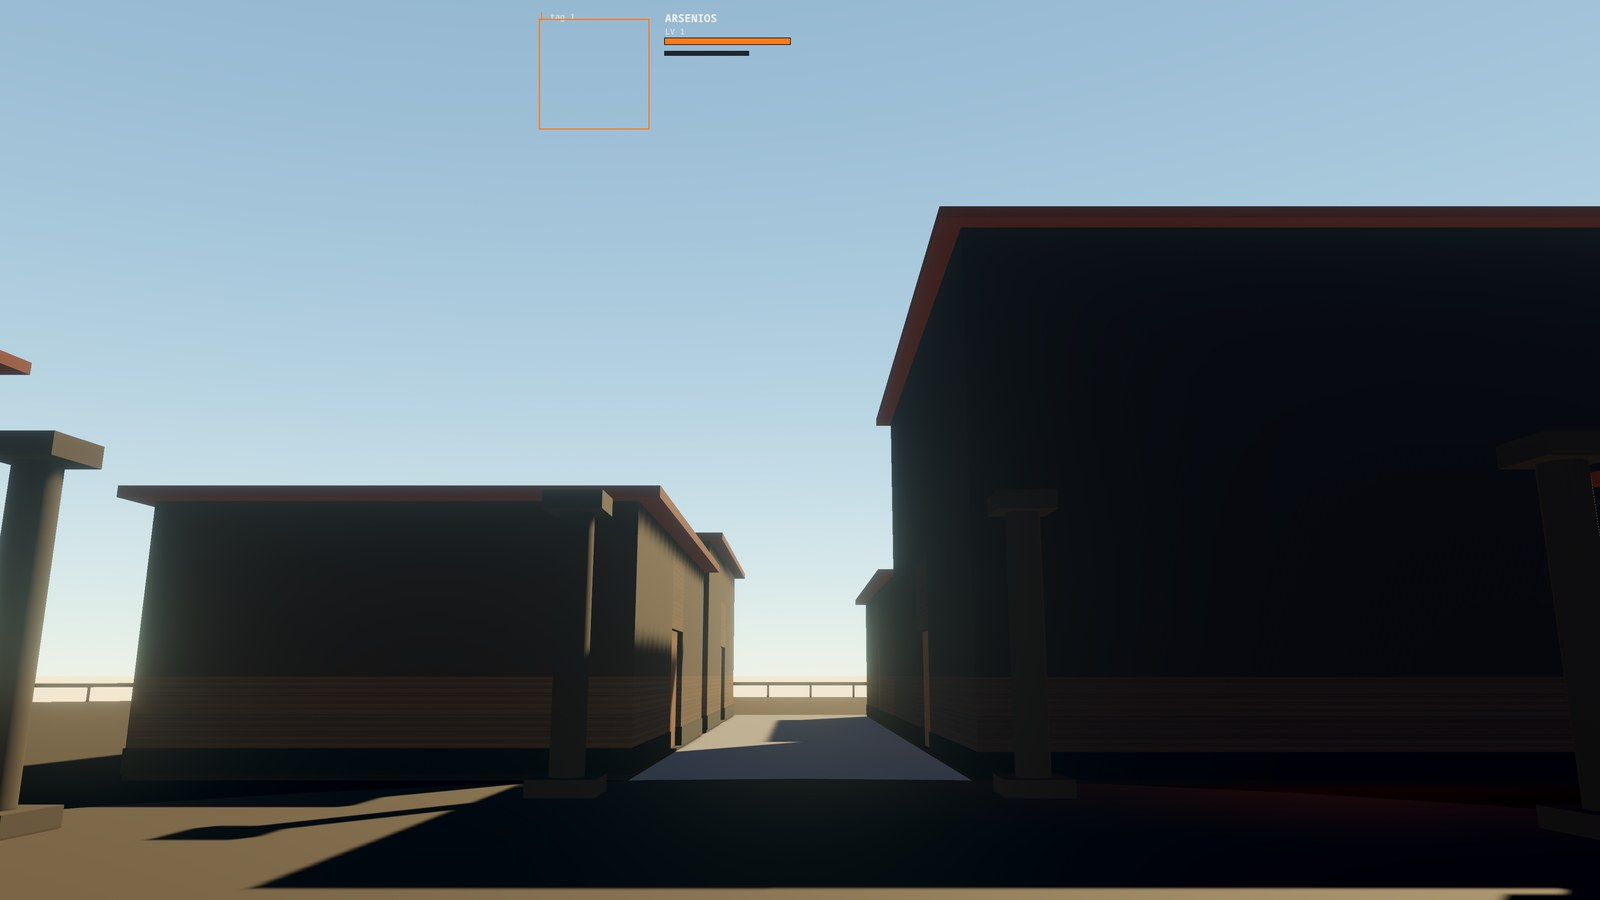
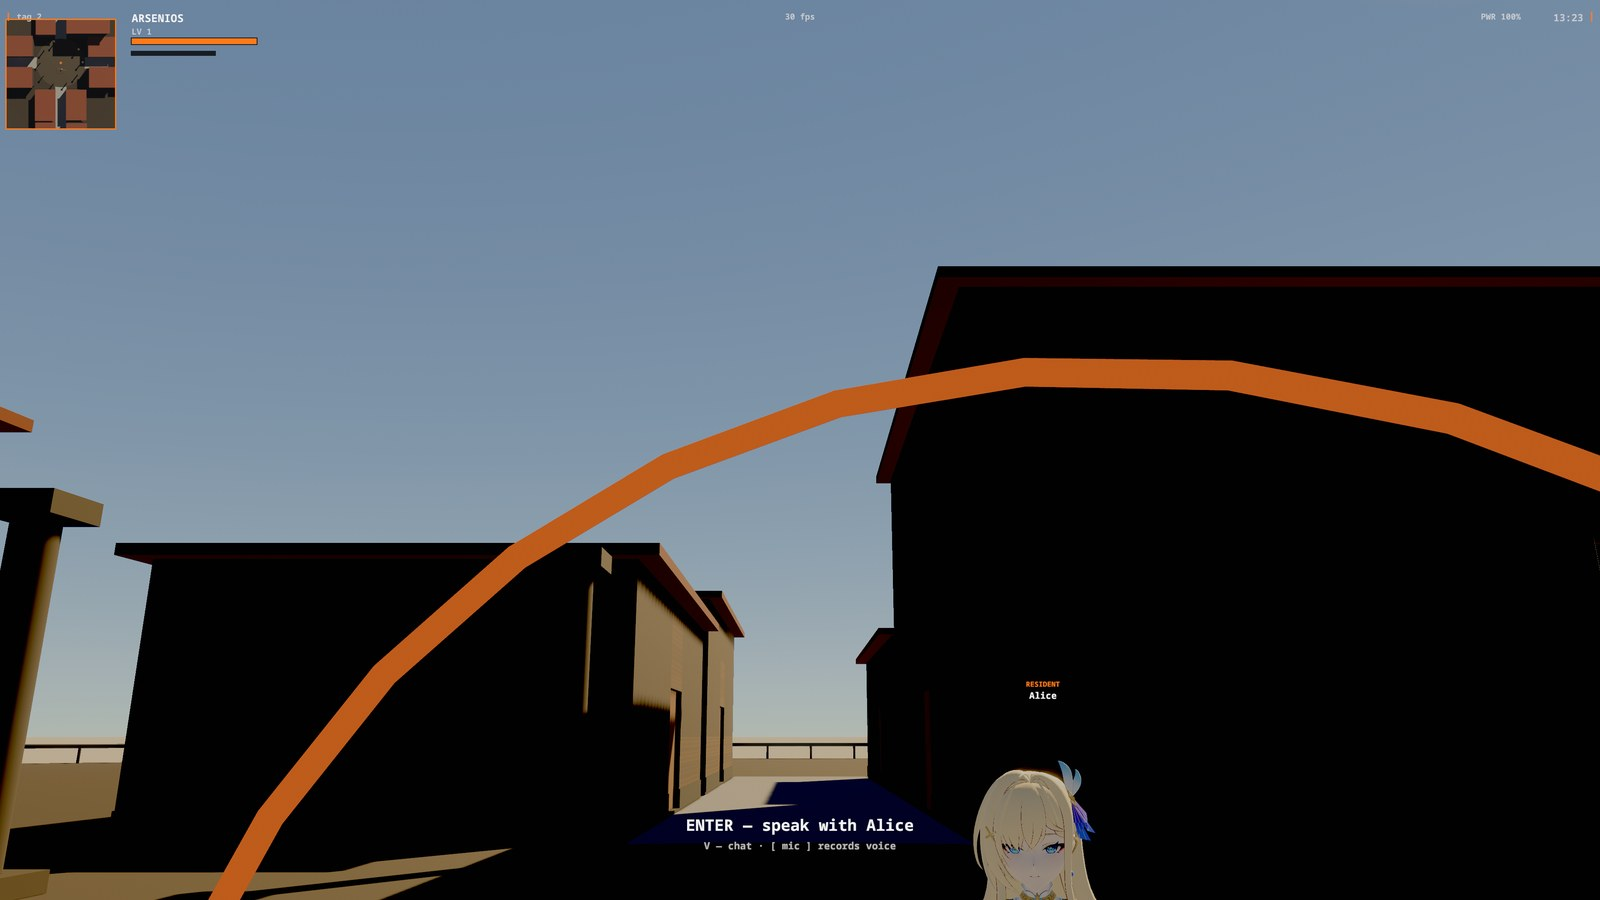
log: cardinal — the sky pass, with screenshots from the clearer build

diff --git a/log.html b/log.html
@@ -34,7 +34,7 @@
       <div>
         <span class="tag mono">cardinal</span>
         <p>cardinal 0.7.18 — the world got an edge, then a light. The 400 m ground plane is gone: the town now stands on a floating island, a 90 m disc over a rock keel with a stone balustrade at the rim, and the sky is Bevy's atmosphere instead of a painted gradient. The sun follows a real arc again — its noon peak was capped at 18° for years so the disc would stay in frame, which meant late-afternoon light at every hour; at 51° midday actually lights the streets. A weather machine walks the sky from clear to clouds to rain, greying the dome and pulling the horizon in as it goes.</p>
-        <p>The colour pass that followed was mostly subtraction. Shade starts at black and the sun draws the town; the sky fill sits at 7%, so anything the sun misses stays dark. Walls are one baked plank texture under six wood tints over a black base course, the ground is dirt, the roads are pale stone, and a colour grade sits on the camera — contrast up, gamma and lift down — because a 1.5% black lift turned out to be the whole difference between deep shade and haze. Boards run horizontally on every face now: a cuboid's faces disagree about which way is up, so the wall mesh builds its own UVs.</p>
+        <p>The colour pass that followed was mostly subtraction. Shade starts at black and the sun draws the town; the sky fill sits low, so anything the sun misses stays dark. Walls are one baked plank texture under six wood tints over a black base course, the ground is dirt, the roads are pale stone, and a colour grade sits on the camera — contrast up, gamma and lift down — because a 1.5% black lift turned out to be the whole difference between deep shade and haze. Boards run horizontally on every face now: a cuboid's faces disagree about which way is up, so the wall mesh builds its own UVs. And the sky took two more passes to stop looking like fog: the pale sheet was the atmosphere's own dome, lit by a planet whose ground albedo we had set bright enough to bounce light back into it. Darkening that ground and thinning the air moved the noon sky from a flat 141,160,175 to a graded 110,135,161 — the town's median did not move at all.</p>
         <figure class="log-media">
           <img src="media/2026-10-31/cardinal-island-morning.jpg" alt="cardinal's floating island town at 09:30 — sunlit wood façades, a dirt street with pale stone road, deep black shade" loading="lazy">
           <figcaption>09:30. Raking sun down the street: one side lit, one side in shadow, the sky fill barely there — which is the look the darkness-first pass was after.</figcaption>
